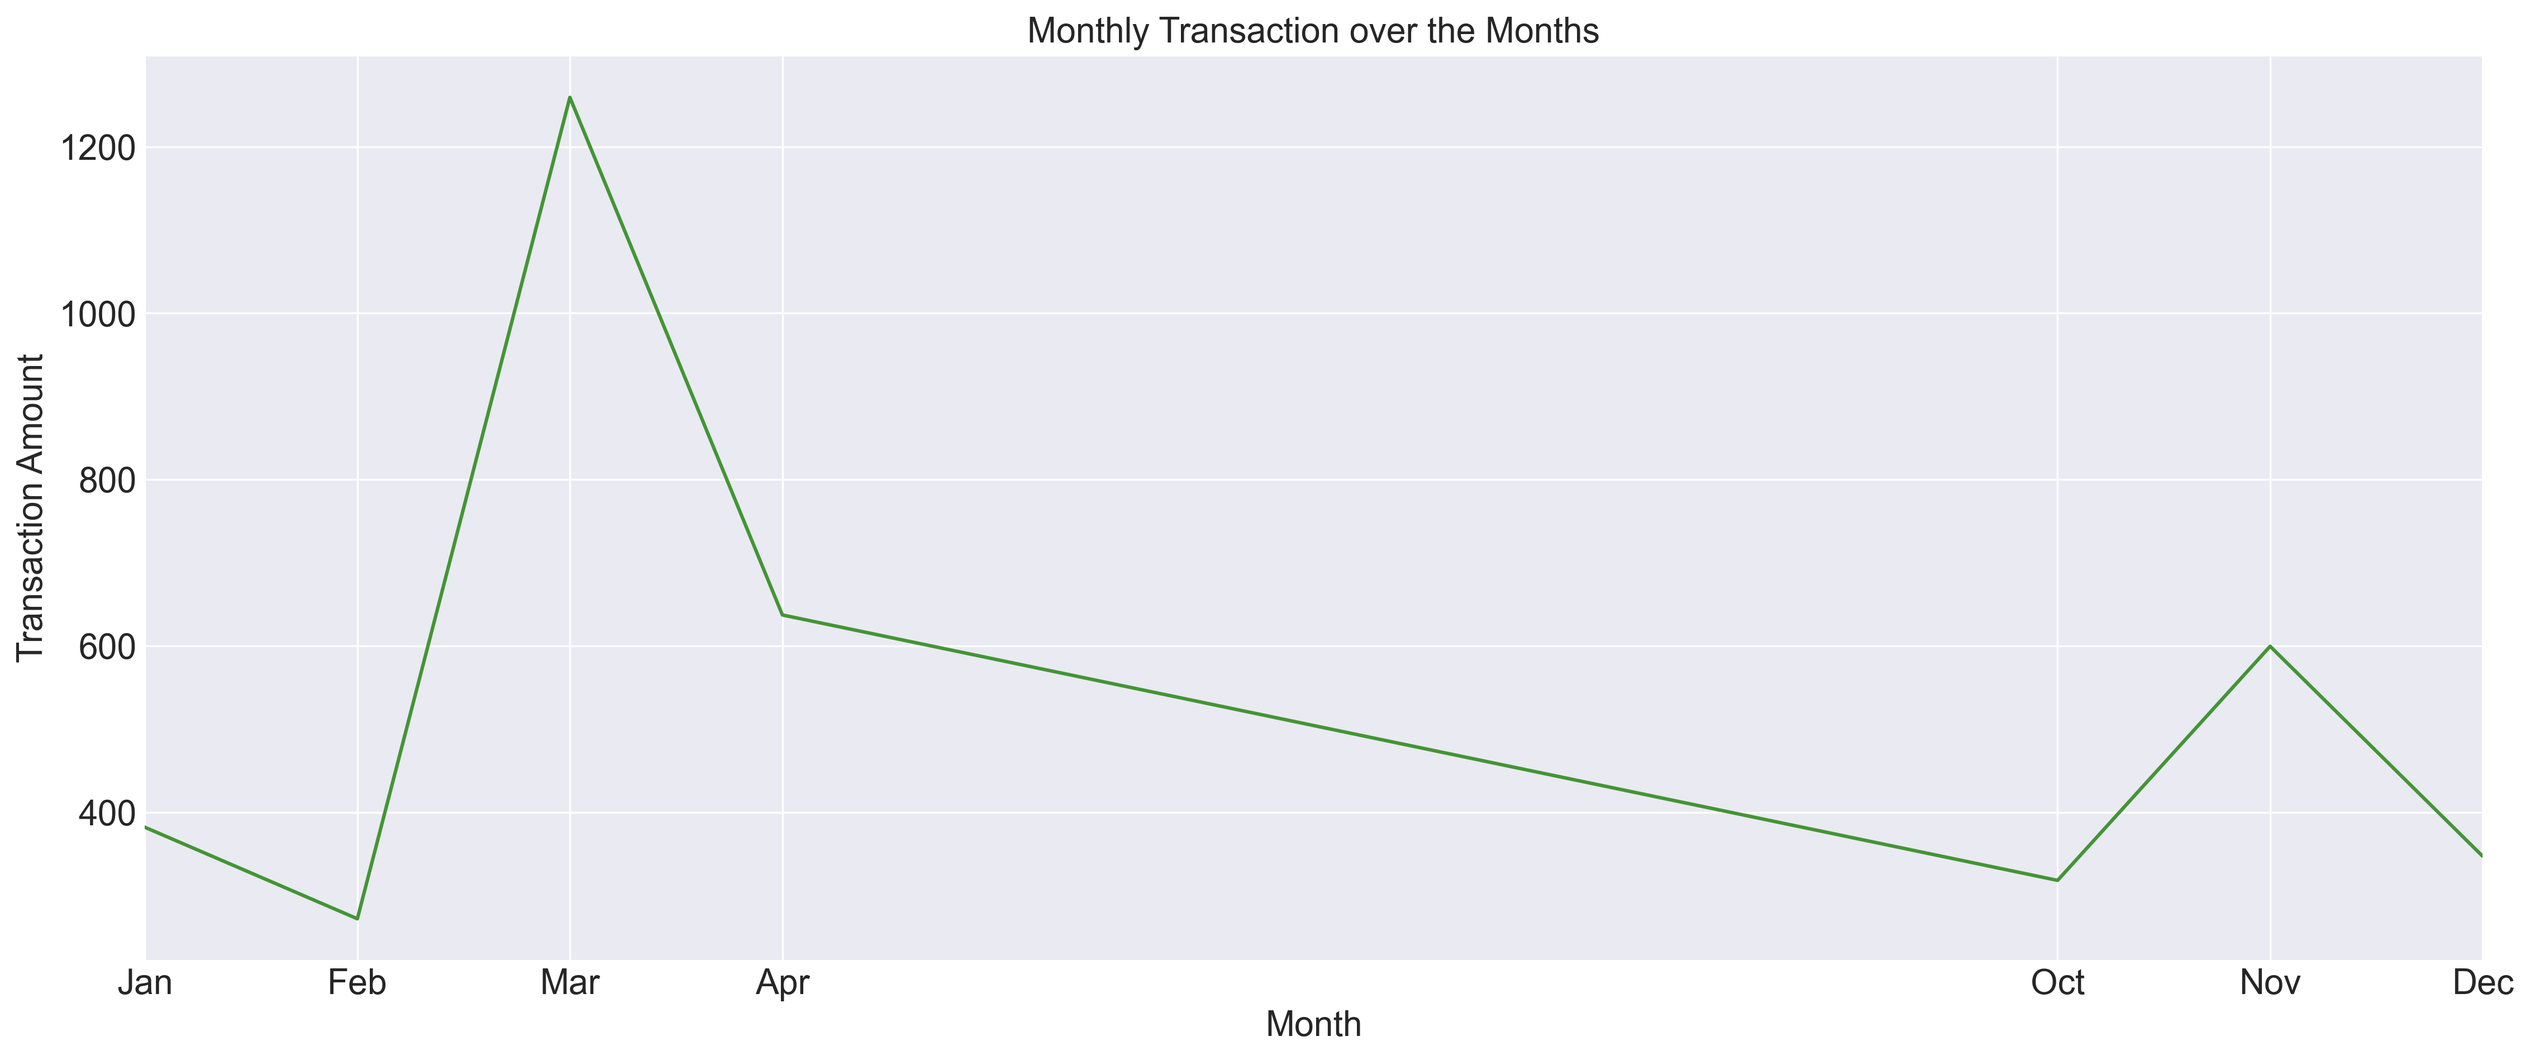
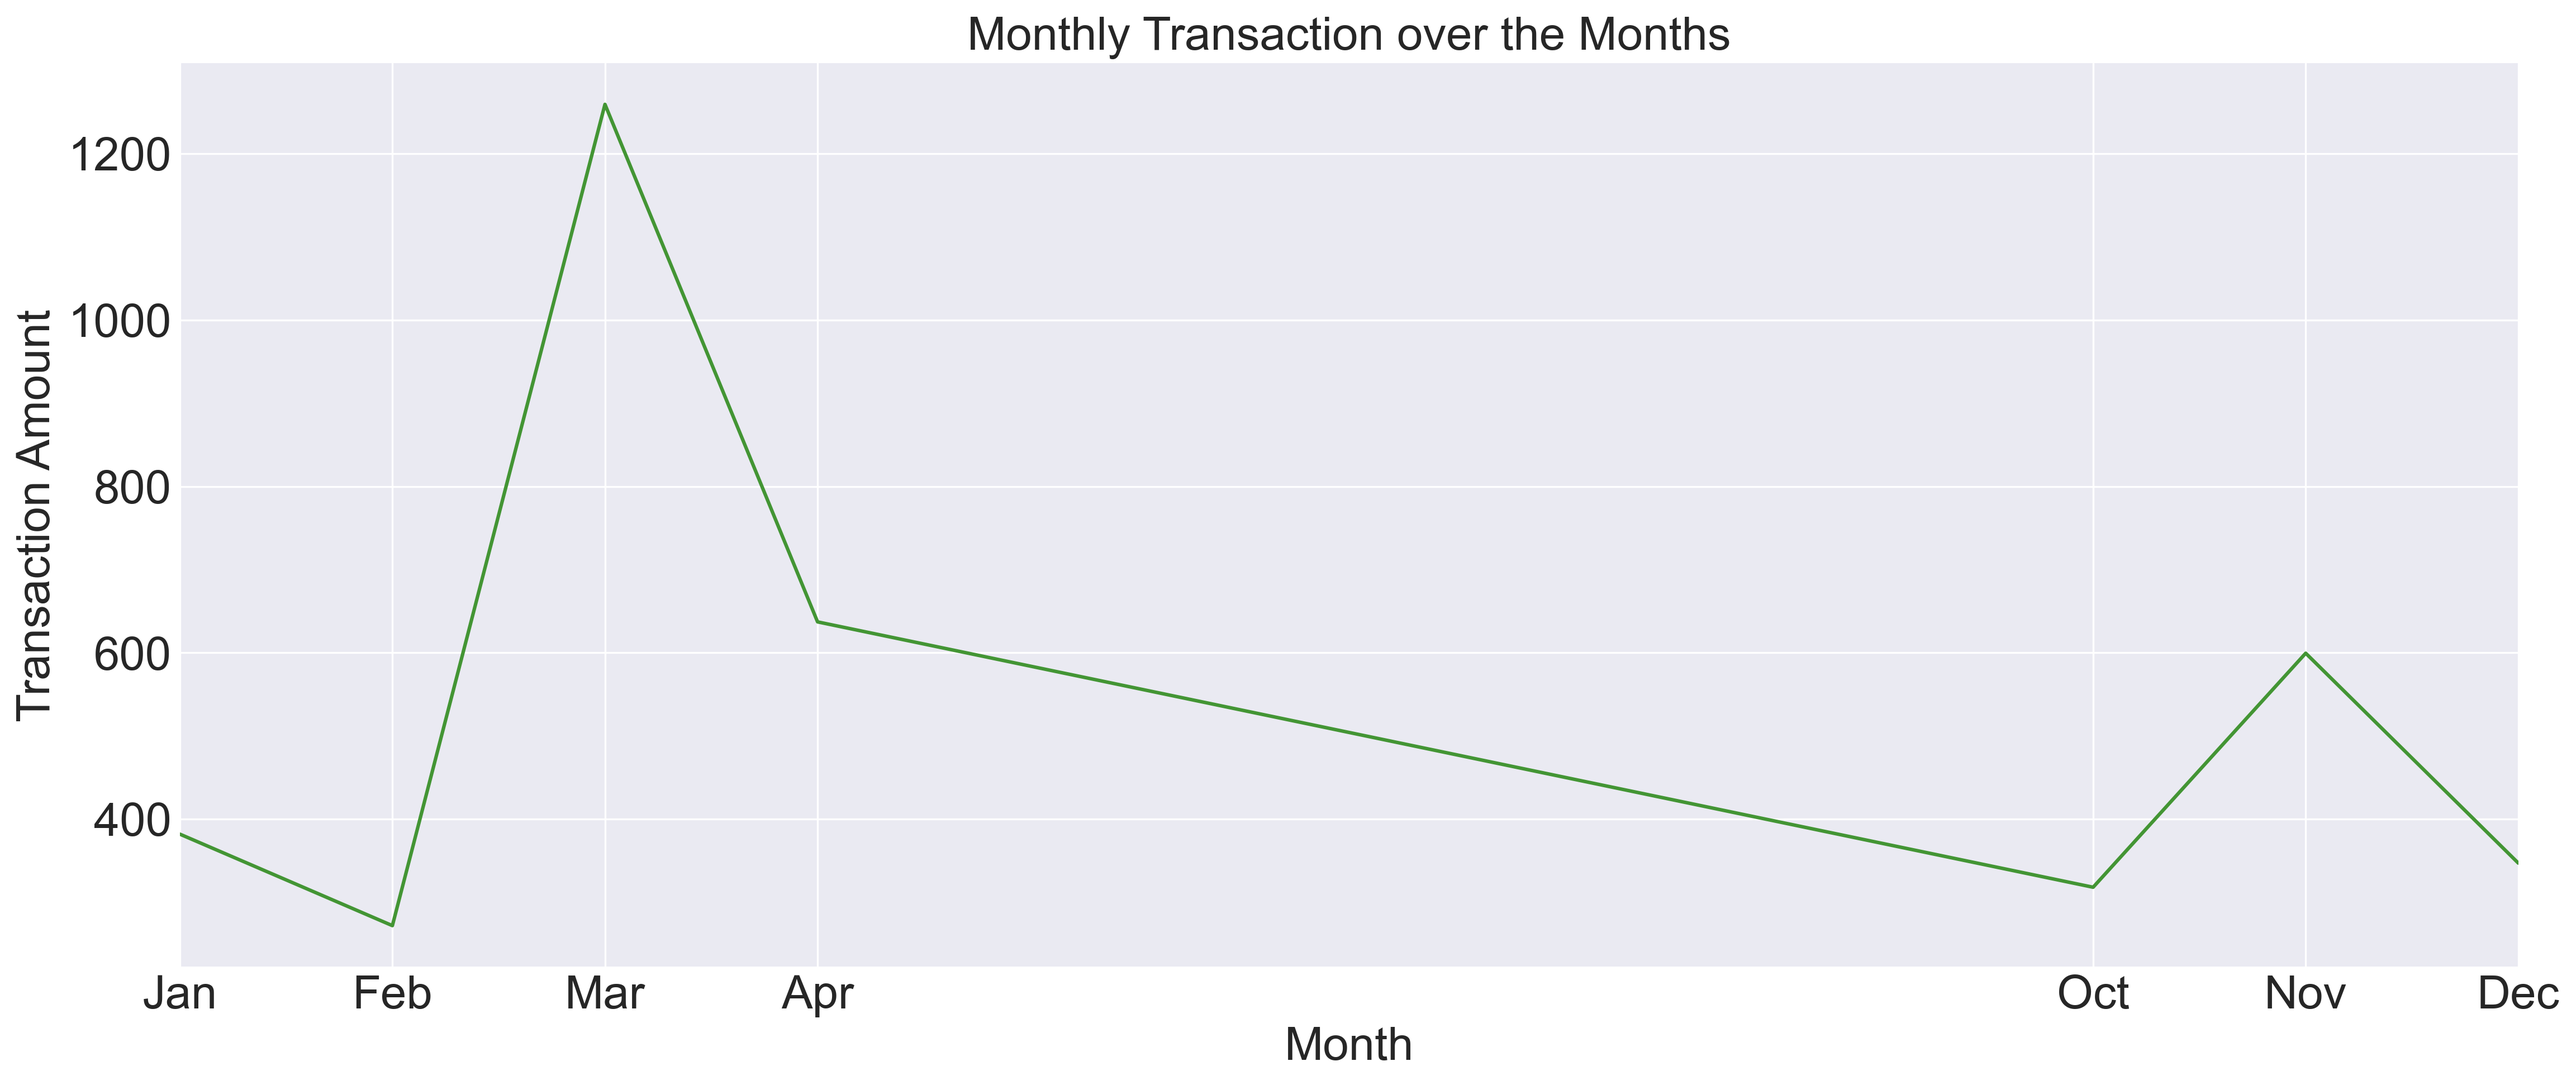
new code update

diff --git a/Mpesa prediction/MpesaApp.py b/Mpesa prediction/MpesaApp.py
@@ -265,8 +265,8 @@ with tabs[1]:
 # on the insight section try making it be a dashboard
 with tabs[2]:
     st.markdown("<div style='margin-bottom:10px'></div>", unsafe_allow_html=True)
-    r1c1, r1c2, r1c3 = st.columns([3, 3, 3])
-    r2c1, r2c2, r2c3 = st.columns([3.0, 3.0, 3.0])
+    r1c1, r1c2, r1c3 = st.columns([5, 5, 5])
+    r2c1, r2c2, r2c3 = st.columns([4.5, 4.5, 4.5])
     r3c1, r3c2, r3c3 = st.columns([1.5, 1.5, 1.5])
     r4c1, r4c2, r4c3 = st.columns([1.5, 1.5, 1.5])
 
@@ -291,25 +291,22 @@ with tabs[2]:
 
     with r2c1:
         # Transaction spend
-        fig = px.bar(
-            combined_data,
-            x='Weekday',
-            y='Transaction_amount',
-            color_discrete_sequence=['#439534'],
-            title='Transaction spend during weekday'
-        )
-        fig.update_xaxes(
-            tickvals=[0, 1, 2, 3, 4, 5, 6, 7],
-            ticktext=['Mon', 'Tue', 'Wed', 'Thur', 'Fri', 'Sat','Sun']
-        )
-        fig.update_layout(
-            xaxis_title='Weekday',
-            yaxis_title='Transaction Amount',
-        )
-        st.plotly_chart(fig, use_container_width=True)
+        plt.figure(figsize=(20, 8))
+        plt.style.use('seaborn-v0_8-darkgrid')
+        plot = sns.barplot(data=combined_data,
+                           x='Weekday', y='Transaction_amount', color='#439534', errorbar=None,
+                           )
+        plt.title('Transaction spend during weekday', fontsize=20)
+        plt.xlabel('Weekday', fontsize=20)
+        plt.xticks(fontsize=20)
+        plt.ylabel('Transaction Amount', fontsize=20)
+        plt.yticks(fontsize=20)
+        weekday_names = ['Mon', 'Tue', 'Wed', 'Thu', 'Fri', 'Sat', 'Sun']
+        plot.set_xticklabels([weekday_names[i] for i in plot.get_xticks()])
+        st.pyplot(plt)
 
     with r2c2:
-        plt.figure(figsize=(18, 7))
+        plt.figure(figsize=(20, 8))
         plot = sns.lineplot(data=combined_data, x='Month', y='Transaction_amount', color='#439534', errorbar=None)
         months_names = ['Jan', 'Feb', 'Mar', 'Apr', 'May', 'Jun',
                         'Jul', 'Aug', 'Sep', 'Oct', 'Nov', 'Dec']
@@ -317,12 +314,11 @@ with tabs[2]:
         plot.set_xticks(existing_months)
         plot.set_xticklabels([months_names[int(i) - 1] for i in existing_months])
         plot.set_xlim(1, 12)
-        plt.title("Monthly Transaction over the Months", fontsize=15)
-        plt.xticks(fontsize=15)
-        plt.xlabel("Month", fontsize=15)
-        plt.ylabel("Transaction Amount", fontsize=15)
-        plt.yticks(fontsize=15)
-        plt.savefig("Charts/Monthly_transaction_over_the_months.png", dpi=300, bbox_inches='tight')
+        plt.title("Monthly Transaction over the Months", fontsize=20)
+        plt.xticks(fontsize=20)
+        plt.xlabel("Month", fontsize=20)
+        plt.ylabel("Transaction Amount", fontsize=20)
+        plt.yticks(fontsize=20)
         st.pyplot(plt)
 
     with r2c3:
